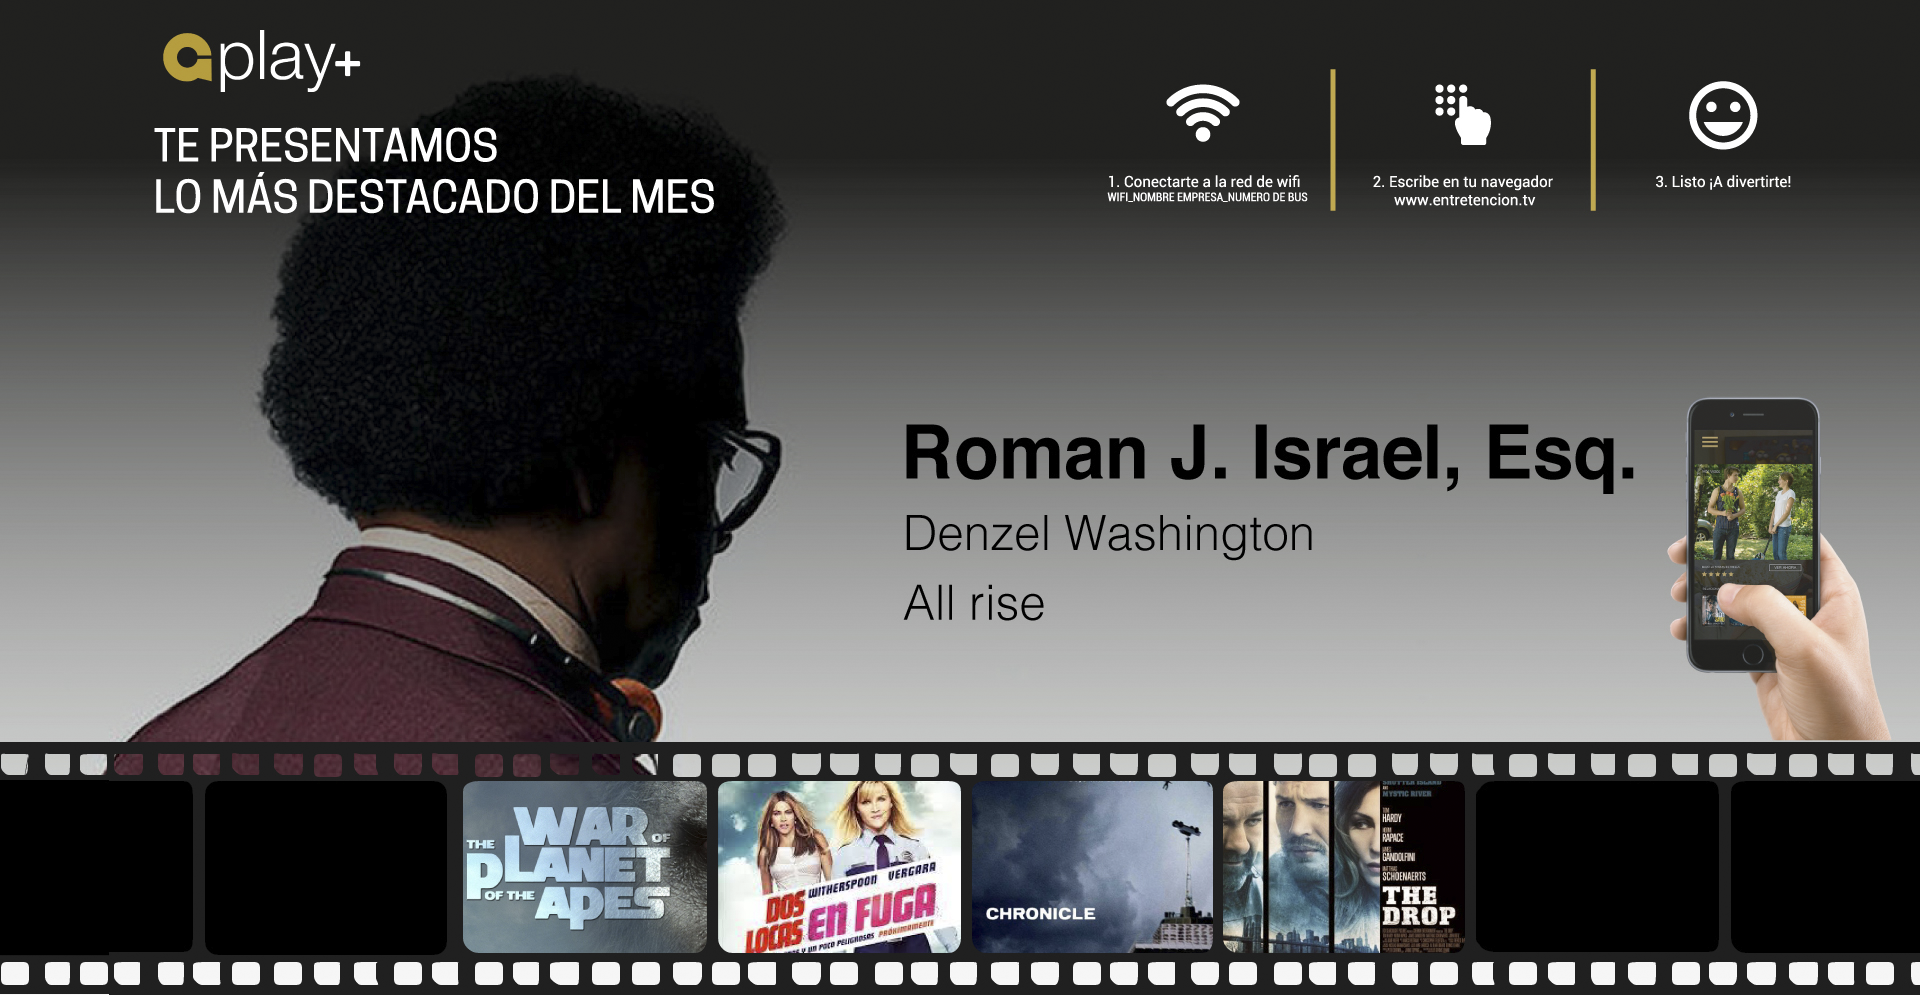
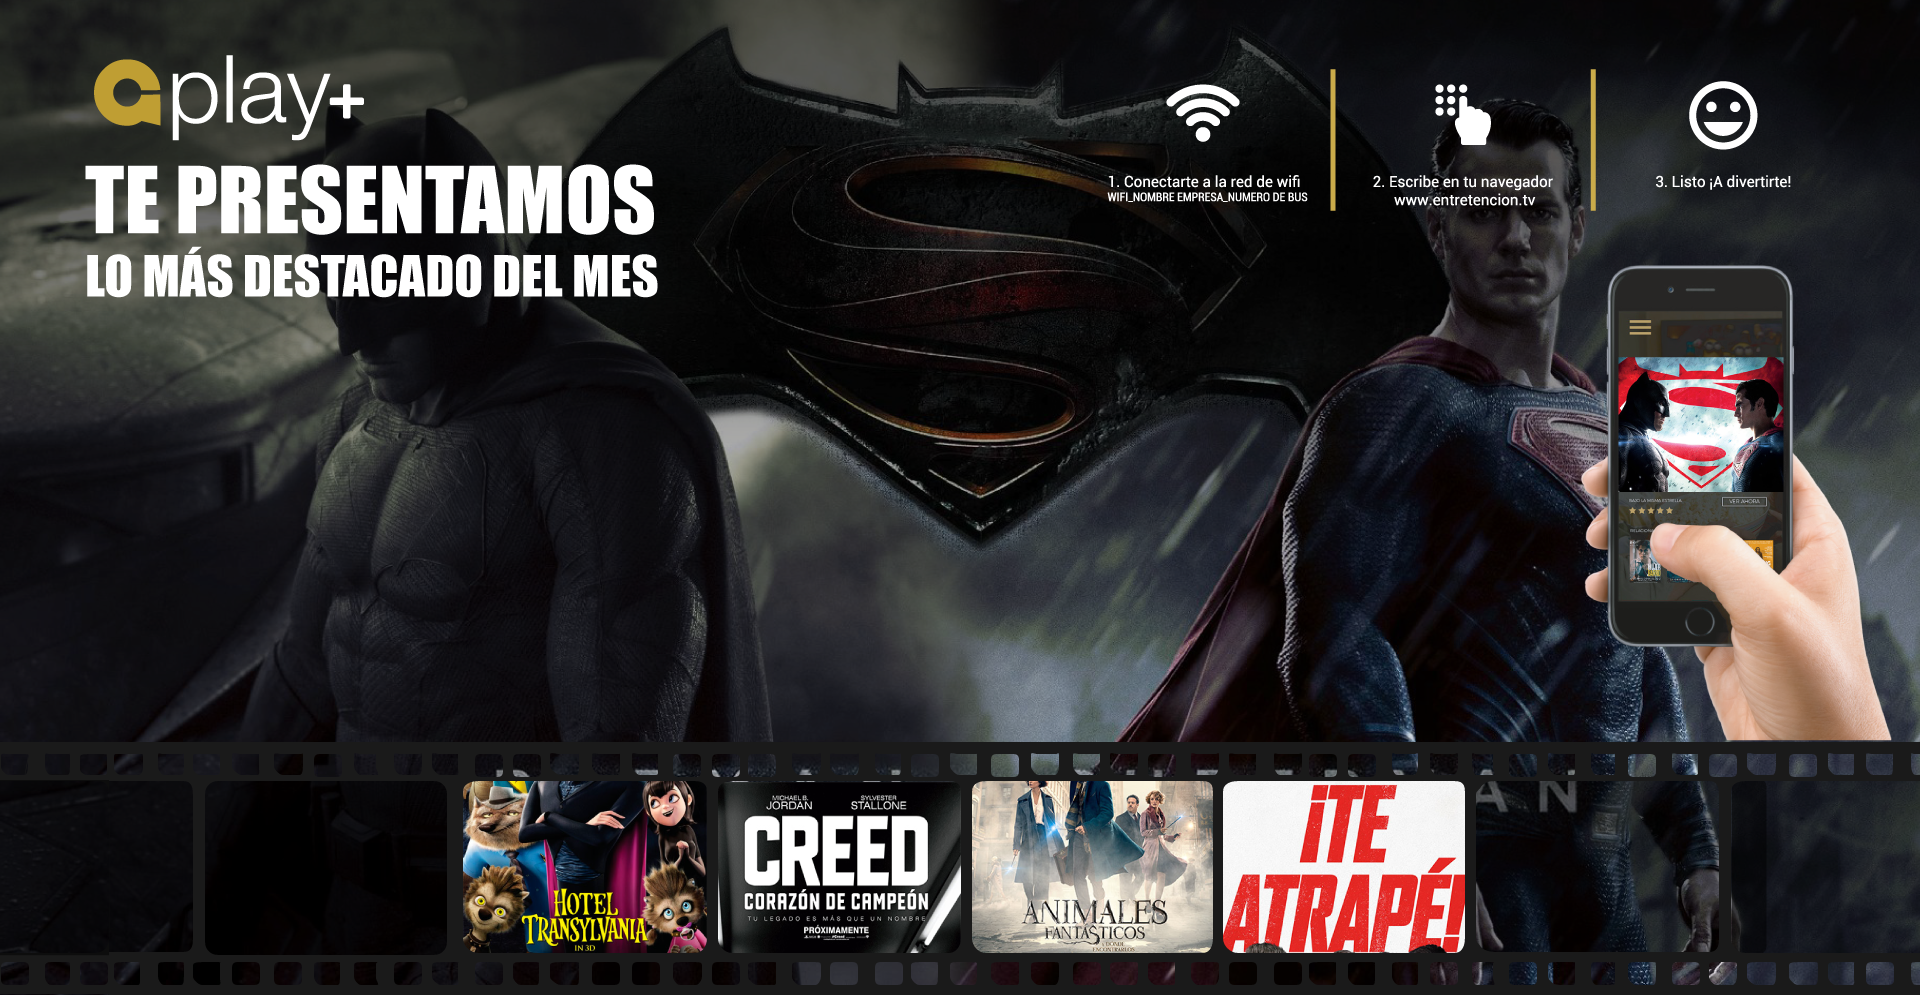
cambiando de imagenes

diff --git a/src/components/BackgroundImage.vue b/src/components/BackgroundImage.vue
@@ -16,14 +16,14 @@
     props: ['from'],
     data: () => ({
       imagen: '',
-      imgnumber: 2,
+      imgnumber: 1,
       refreshInterval: ''
     }),
     methods: {
       updateImg () {
         console.log('update')
-        if(this.imgnumber === 5){
-          this.imgnumber = 2
+        if(this.imgnumber === 4){
+          this.imgnumber = 1
         }
         else{
           this.imgnumber++
